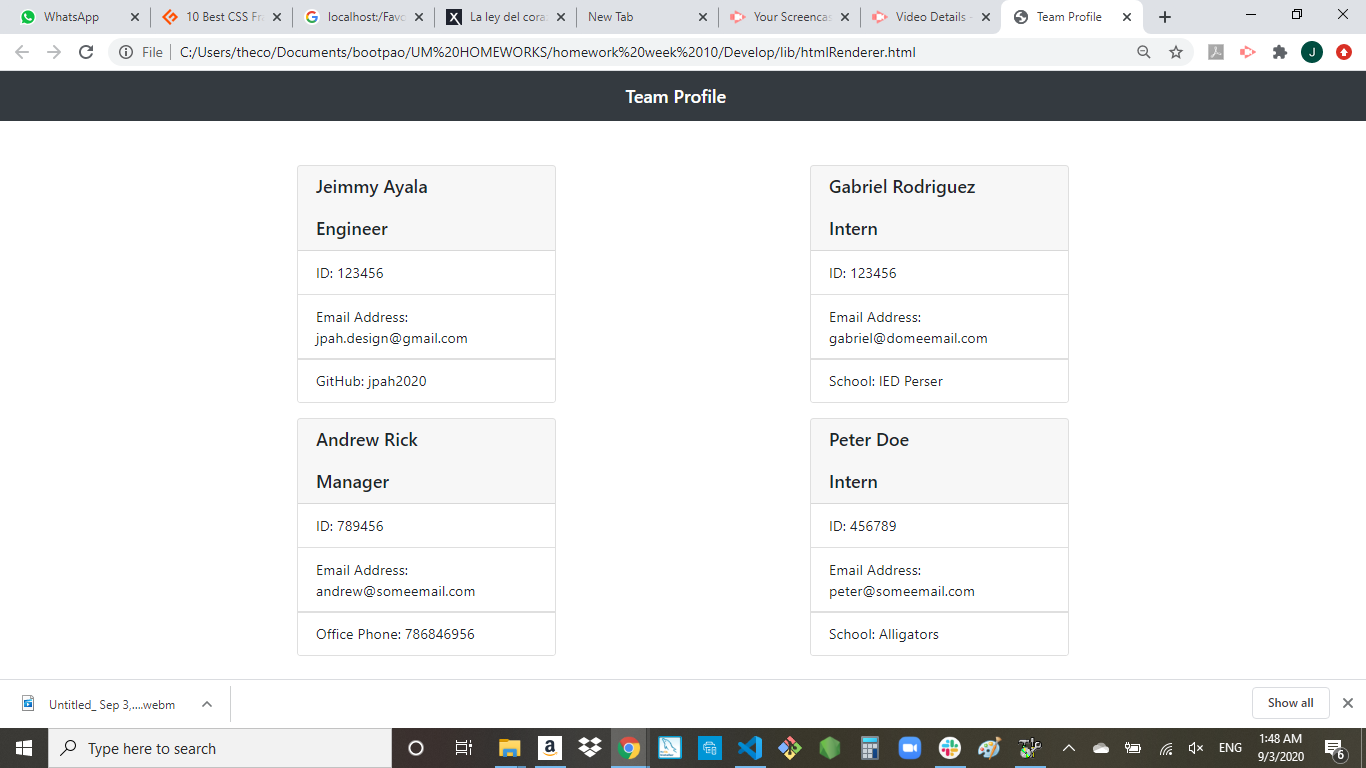
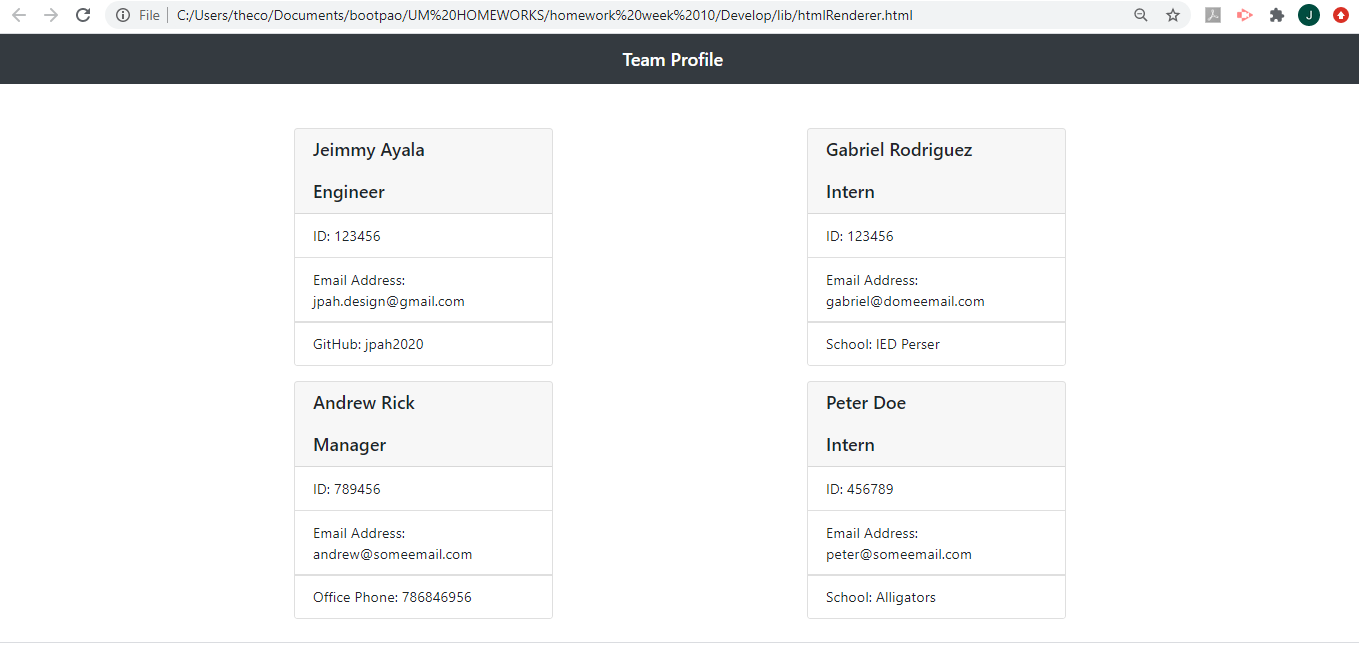
updating

diff --git a/lib/htmlRenderer.html b/lib/htmlRenderer.html
@@ -1,55 +1,78 @@
 <!DOCTYPE html>
-    <html lang="en">
-    <head>
-        <meta charset="UTF-8">
-        <meta name="viewport" content="width=device-width, initial-scale=1.0">
-        <meta http-equiv="X-UA-Compatible" content="ie=edge">
-        <link rel="stylesheet" href="https://stackpath.bootstrapcdn.com/bootstrap/4.3.1/css/bootstrap.min.css" integrity="sha384-ggOyR0iXCbMQv3Xipma34MD+dH/1fQ784/j6cY/iJTQUOhcWr7x9JvoRxT2MZw1T" crossorigin="anonymous">
-        <title>Team Profile</title>
-    </head>
-    <body>
-        <nav class="navbar navbar-dark bg-dark mb-5">
-            <span class="navbar-brand mb-0 h1 w-100 text-center">Team Profile</span>
-        </nav>
-        <div class="container">
-            <div class="row"><div class="col-6">
-            <div class="card mx-auto mb-3" style="width: 18rem">
-            <h5 class="card-header">Jeimmy Ayala<br /><br />Engineer</h5>
-            <ul class="list-group list-group-flush">
-                <li class="list-group-item">ID: 123456</li>
-                <li class="list-group-item">Email Address: jpah.design@gmail.com</li>
-                <li class="list-group-item">GitHub: jpah2020</li>
-            </ul>
+<html lang="en">
+
+<head>
+    <meta charset="UTF-8">
+    <meta name="viewport" content="width=device-width, initial-scale=1.0">
+    <meta http-equiv="X-UA-Compatible" content="ie=edge">
+    <link rel="stylesheet" href="https://stackpath.bootstrapcdn.com/bootstrap/4.3.1/css/bootstrap.min.css"
+        integrity="sha384-ggOyR0iXCbMQv3Xipma34MD+dH/1fQ784/j6cY/iJTQUOhcWr7x9JvoRxT2MZw1T" crossorigin="anonymous">
+    <title>Team Profile</title>
+    <style>
+        .card {
+            margin: 3%;
+            min-width: 300px;
+            display: inline-block
+        }
+
+        body {
+            background-image: url('https://www.google.com/url?sa=i&url=https%3A%2F%2Fknowledge-leader.colliers.com%2Feditor%2Fflexible-workspace-typologies-for-different-user-types%2F&psig=AOvVaw3EBviPpYxsriTP2B12wiWm&ust=1599877826799000&source=images&cd=vfe&ved=0CAIQjRxqFwoTCKjvlsKH4OsCFQAAAAAdAAAAABAD');
+            background-repeat: no-repeat;
+            background-size: cover;
+
+        }
+    </style>
+</head>
+
+<body>
+    <nav class="navbar navbar-dark bg-dark mb-5">
+        <span class="navbar-brand mb-0 h1 w-100 text-center">Team Profile</span>
+    </nav>
+    <div class="container">
+        <div class="row">
+            <div class="col-6">
+                <div class="card mx-auto mb-3" style="width: 18rem">
+                    <h5 class="card-header">Jeimmy Ayala<br /><br />Engineer</h5>
+                    <ul class="list-group list-group-flush">
+                        <li class="list-group-item">ID: 123456</li>
+                        <li class="list-group-item">Email Address: jpah.design@gmail.com</li>
+                        <li class="list-group-item">GitHub: jpah2020</li>
+                    </ul>
+                </div>
             </div>
-        </div><div class="col-6">
-            <div class="card mx-auto mb-3" style="width: 18rem">
-            <h5 class="card-header">Gabriel Rodriguez<br /><br />Intern</h5>
-            <ul class="list-group list-group-flush">
-                <li class="list-group-item">ID: 123456</li>
-                <li class="list-group-item">Email Address: gabriel@domeemail.com</li>
-                <li class="list-group-item">School: IED Perser</li>
-            </ul>
+            <div class="col-6">
+                <div class="card mx-auto mb-3" style="width: 18rem">
+                    <h5 class="card-header">Gabriel Rodriguez<br /><br />Intern</h5>
+                    <ul class="list-group list-group-flush">
+                        <li class="list-group-item">ID: 123456</li>
+                        <li class="list-group-item">Email Address: gabriel@domeemail.com</li>
+                        <li class="list-group-item">School: IED Perser</li>
+                    </ul>
+                </div>
             </div>
-        </div><div class="col-6">
-            <div class="card mx-auto mb-3" style="width: 18rem">
-            <h5 class="card-header">Andrew Rick<br /><br />Manager</h5>
-            <ul class="list-group list-group-flush">
-                <li class="list-group-item">ID: 789456</li>
-                <li class="list-group-item">Email Address: andrew@someemail.com</li>
-                <li class="list-group-item">Office Phone: 786846956</li>
-            </ul>
+            <div class="col-6">
+                <div class="card mx-auto mb-3" style="width: 18rem">
+                    <h5 class="card-header">Andrew Rick<br /><br />Manager</h5>
+                    <ul class="list-group list-group-flush">
+                        <li class="list-group-item">ID: 789456</li>
+                        <li class="list-group-item">Email Address: andrew@someemail.com</li>
+                        <li class="list-group-item">Office Phone: 786846956</li>
+                    </ul>
+                </div>
             </div>
-        </div><div class="col-6">
-            <div class="card mx-auto mb-3" style="width: 18rem">
-            <h5 class="card-header">Peter Doe<br /><br />Intern</h5>
-            <ul class="list-group list-group-flush">
-                <li class="list-group-item">ID: 456789</li>
-                <li class="list-group-item">Email Address: peter@someemail.com</li>
-                <li class="list-group-item">School: Alligators</li>
-            </ul>
+            <div class="col-6">
+                <div class="card mx-auto mb-3" style="width: 18rem">
+                    <h5 class="card-header">Peter Doe<br /><br />Intern</h5>
+                    <ul class="list-group list-group-flush">
+                        <li class="list-group-item">ID: 456789</li>
+                        <li class="list-group-item">Email Address: peter@someemail.com</li>
+                        <li class="list-group-item">School: Alligators</li>
+                    </ul>
+                </div>
             </div>
-        </div> </div>
+        </div>
     </div>
-    
+
 </body>
+
 </html>
